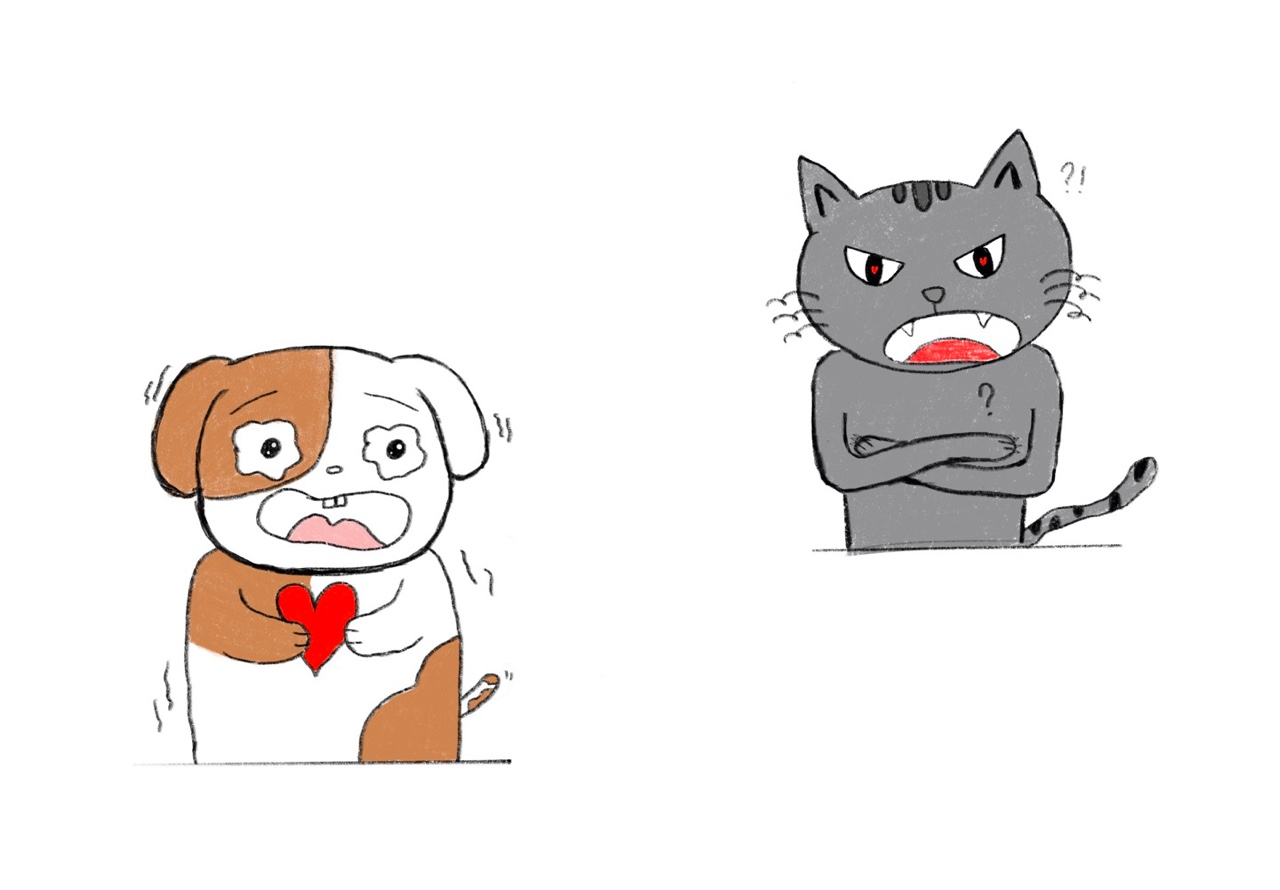
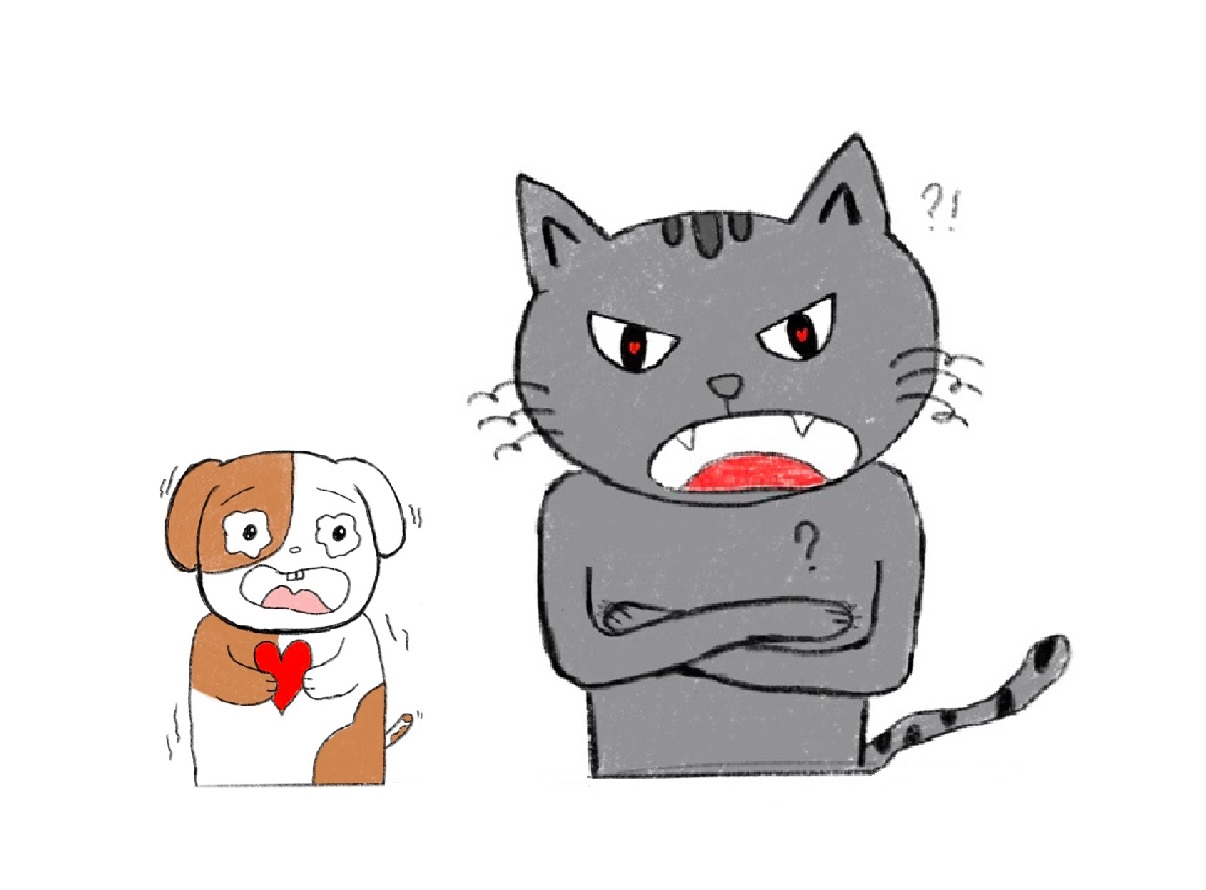
이미지배경제거

Changed region(s): [[0.092, 0.1517, 0.9204, 0.9101]]

diff --git a/finish.html b/finish.html
@@ -44,7 +44,7 @@
         <div id="result">0</div>
         <span class="basic_font finish_font">만큼 사랑해</span>
         <div class="container">
-          <img class="finish_img" src="img/testimg.jpg" />
+          <img class="finish_img" src="img/testimg_rml.png" />
         </div>
         <div class="finish_box">
           <a class="finish_a" href="index.html">다시 시작하기</a>

diff --git a/css/main.css b/css/main.css
@@ -10,6 +10,7 @@
   flex-direction: column;
   align-items: center;
   position: relative;
+  margin-top: 10px;
 }
 
 .start_a {
@@ -263,6 +264,7 @@ img {
   align-items: center;
   flex-direction: column;
   margin-top: 20px;
+  margin-bottom: 10px;
 }
 
 .share_column {
